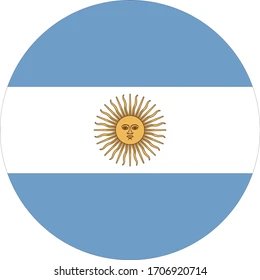
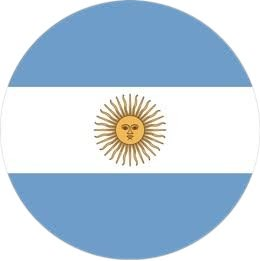
update

diff --git a/js/core/constants.js b/js/core/constants.js
@@ -107,7 +107,7 @@ export const LS_PREFIX = "qa_";
    Bandeiras em img/flags/: alemanha.png argentina.png brasil.png franca.png
    holanda.png inglaterra.png paraguai.png portugal.png
    Cada país tem uma MISSÃO FÁCIL — quem já bateu a meta aparece liberado. */
-const flag = (file) => 'url("img/flags/' + file + '.png") center/cover no-repeat';
+const flag = (file) => 'url("img/flags/' + file + '.png") center / 100% 100% no-repeat';
 
 export const SKIN_CATALOG = [
   /* 🔴 bolinhas clássicas */
